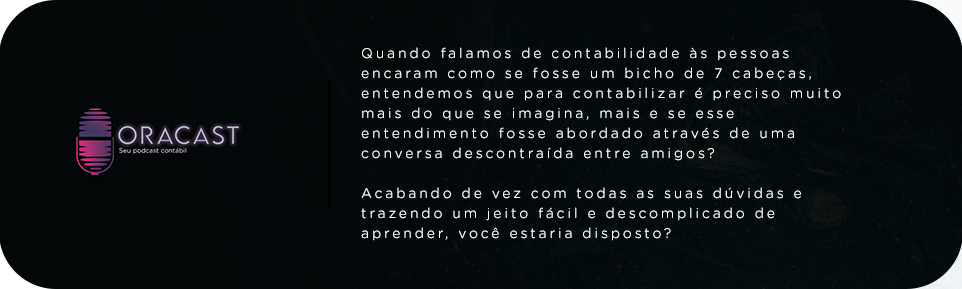
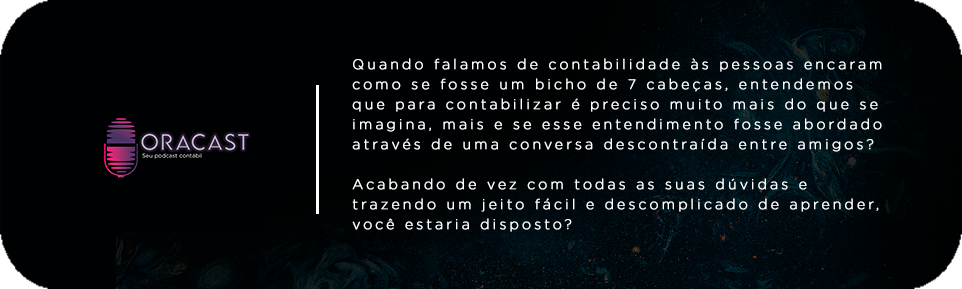
att

diff --git a/index.html b/index.html
@@ -99,7 +99,7 @@
             </a>
           </div>
         </section>
-        <section>
+     <!--    <section>
           <div class="container-balao">
             <h2 class="title"> ORAcast - mudando <br> sua visão sobre a contabilidade
             </h2>
@@ -115,7 +115,8 @@
             </p>
           </div>
         </section>
-      </article>
+      </article> -->
+       <img class="balao" src="img/balao.png" alt="">
       <article class=" text-center text-light mt-5 d-flex flex-wrap  ">
         <div class="row">
           <section class="col-sx-6 col-md-12">

diff --git a/css/style.css b/css/style.css
@@ -191,6 +191,7 @@ h3 {
     justify-content: space-evenly;
     position: relative;
     bottom: 10px;
+    left: 30px;
 }
 
 .podcast h6 {
@@ -202,6 +203,7 @@ h3 {
     text-decoration: none;
     color: #fff;
     font-size: 1rem;
+    
 }
 
 .container-balao {
@@ -216,6 +218,7 @@ h3 {
     width: 70%;
     margin: auto;
 }
+
 
 .valor-normal {
     display: flex;
